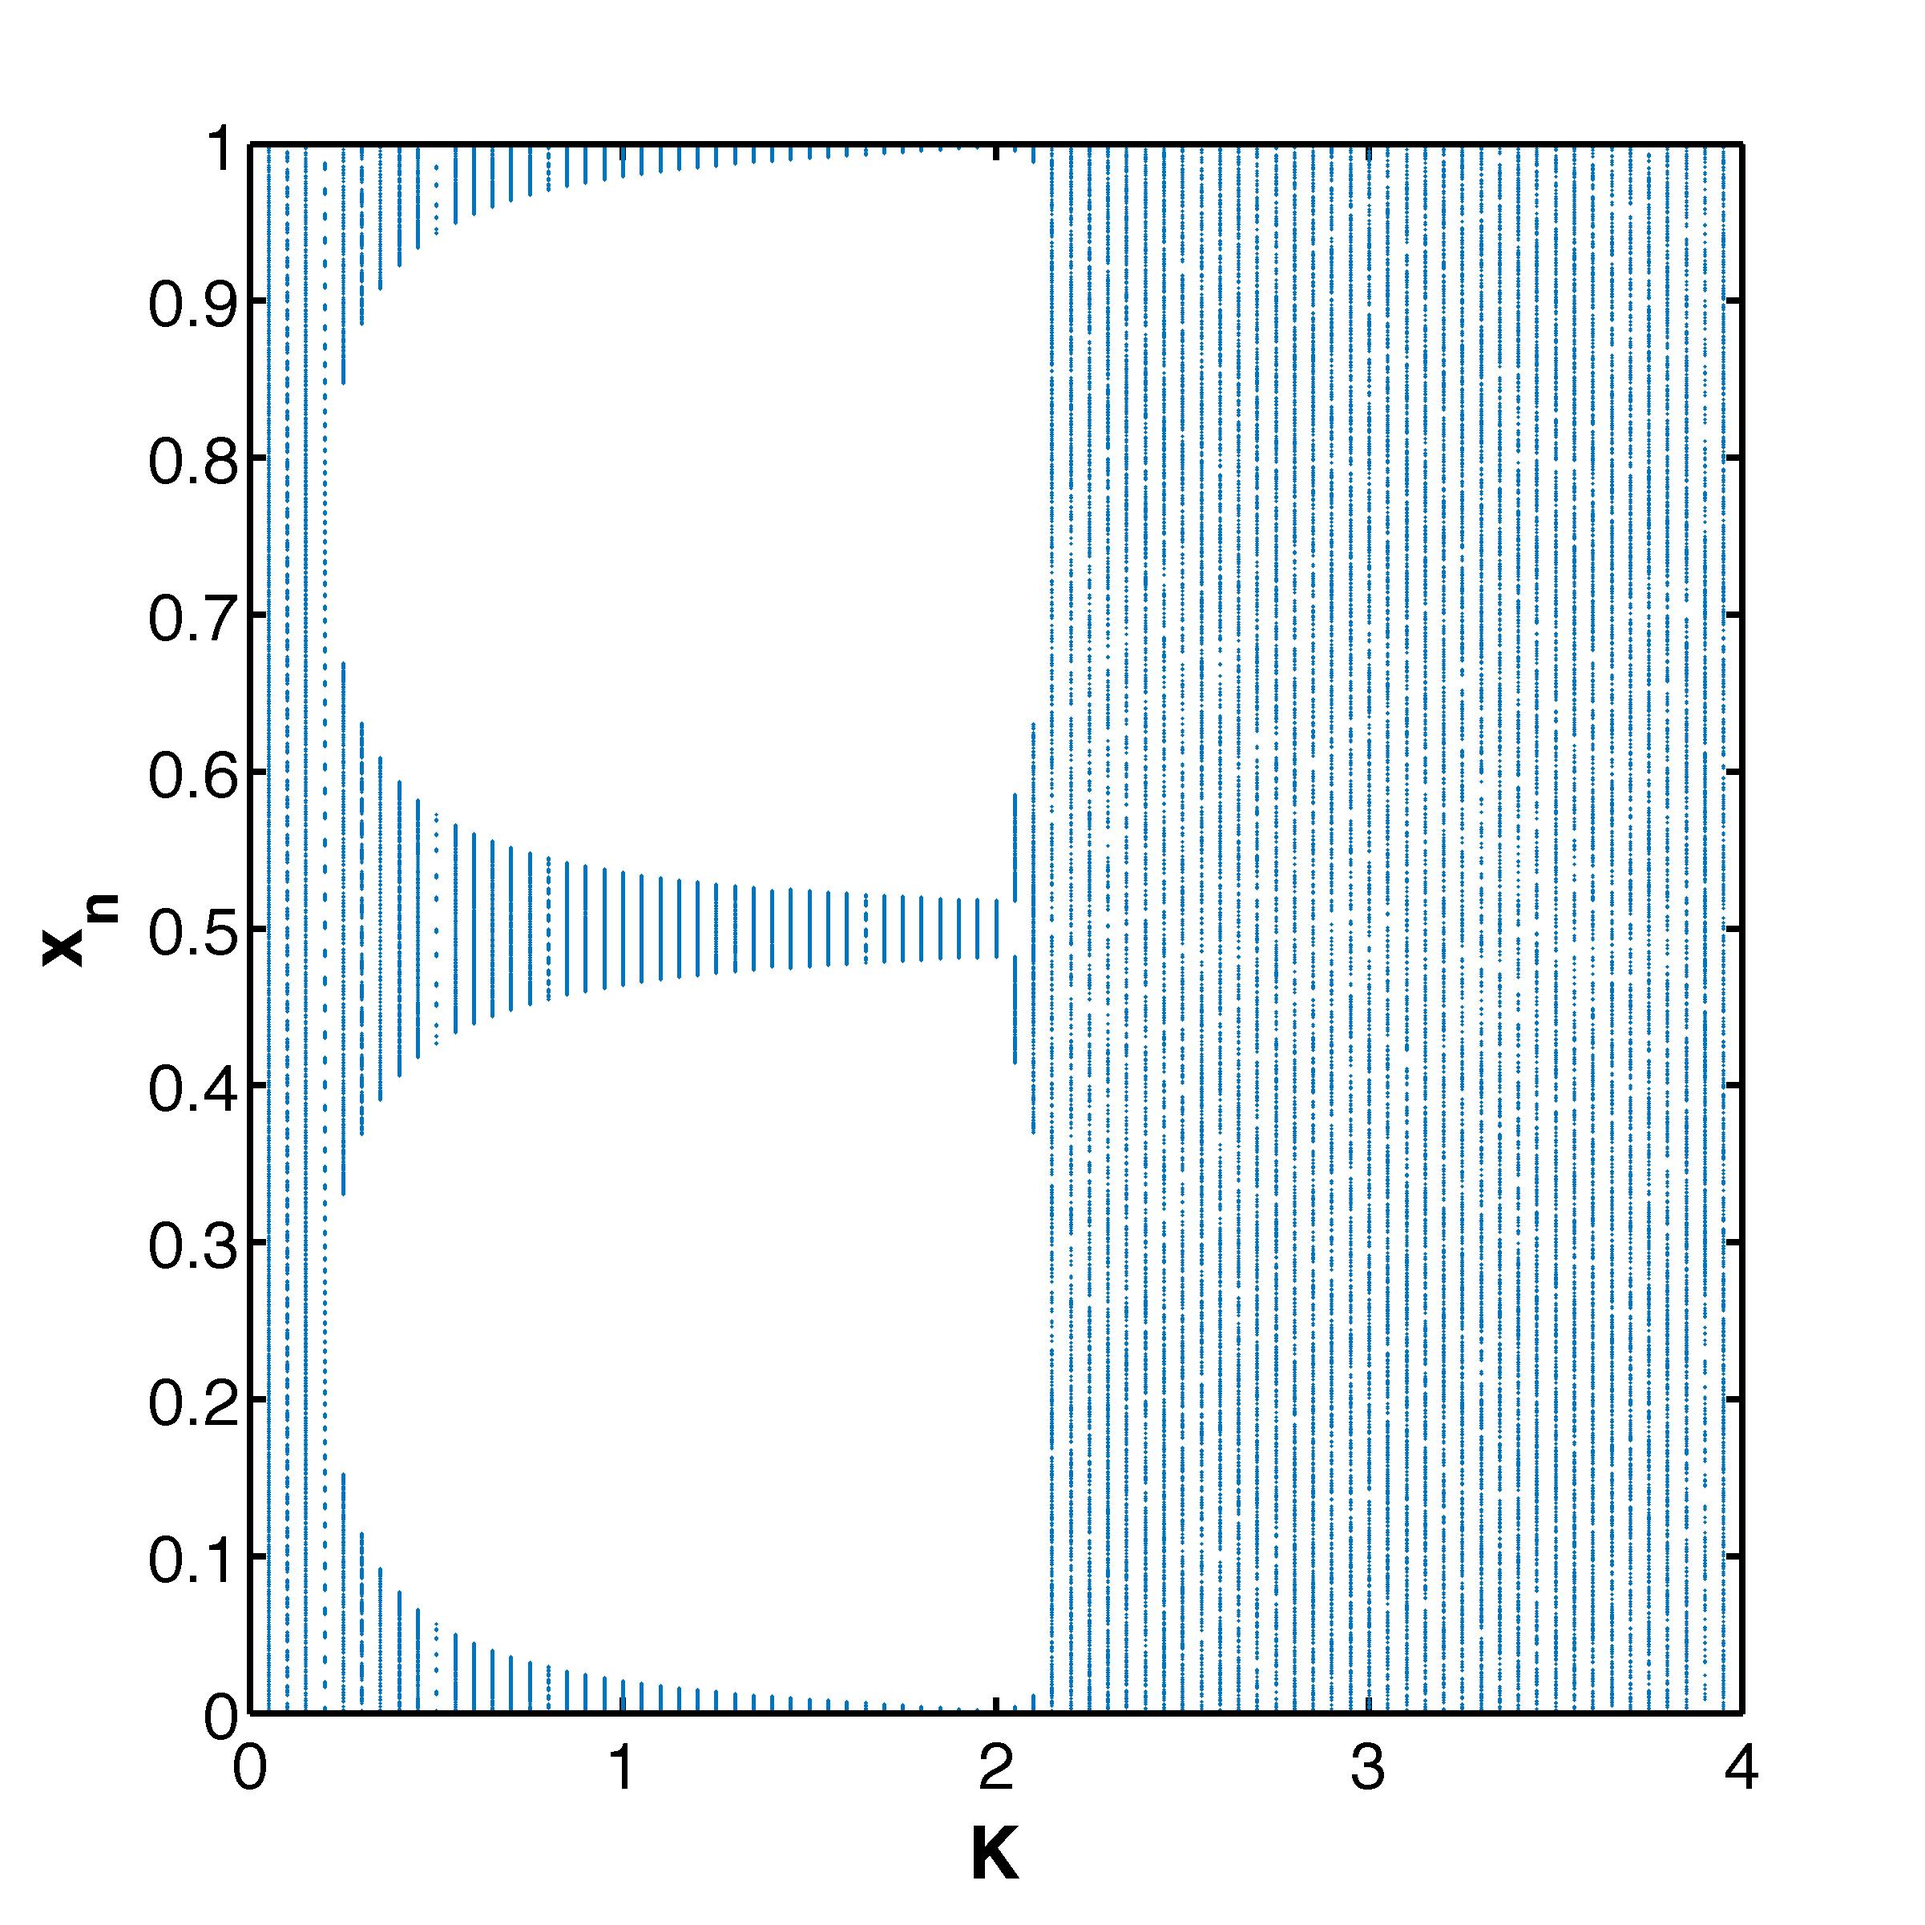
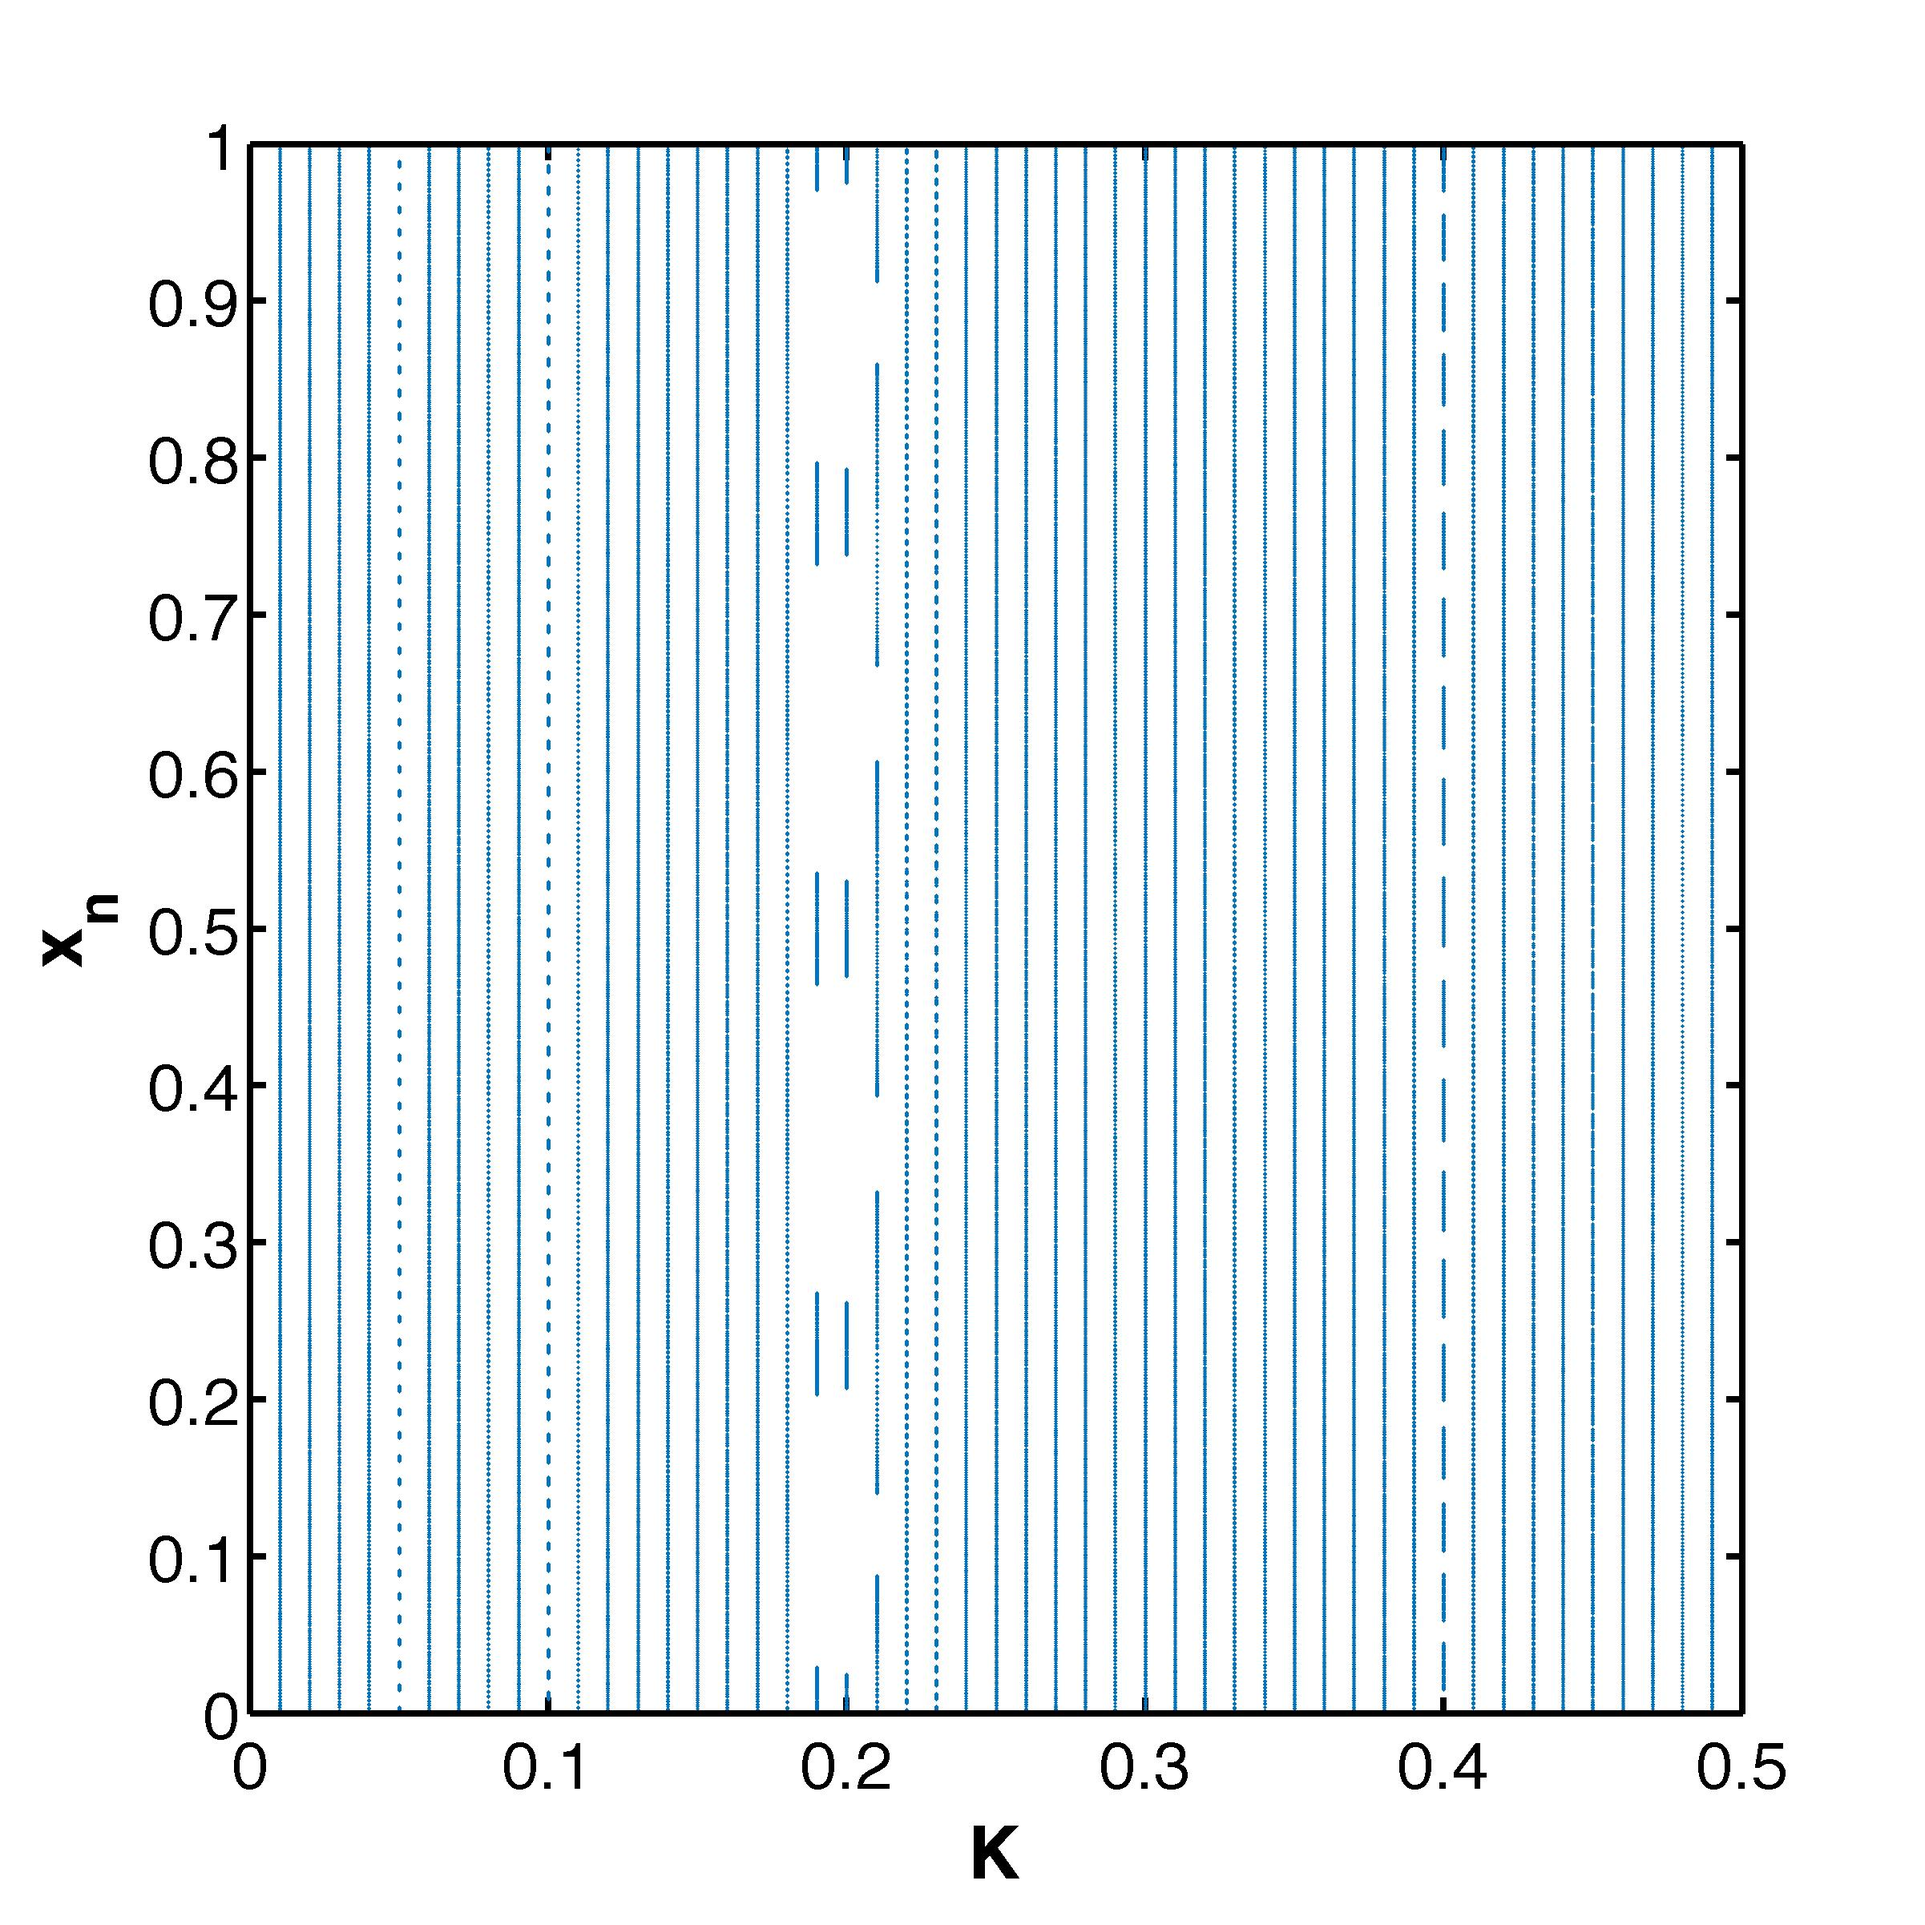
Bifurcation

Changed region(s): [[0.1249, 0.0624, 0.9367, 0.9367], [0.4996, 0.9055, 0.5308, 0.9367]]

diff --git a/Practica/Assignment 1/report/experiment_b.tex b/Practica/Assignment 1/report/experiment_b.tex
@@ -69,13 +69,13 @@ Fixing $x_0$ and varying $p_0$ results in \cref{fig:experiment:K0influenceOfP}, 
 	\begin{subfigure}{\columnwidth}
 		\centering
 			\includegraphics[width=\textwidth]{./img/assignment_b_dim_0_b_x}
-			\caption{$x_0 = \num{0.5179}$}
+			\caption{$x_0 = \num{0.234546}$}
 			\label{fig:experiment:bifurcation:x}
 	\end{subfigure}
 	\begin{subfigure}{\columnwidth}
 		\centering
 			\includegraphics[width=\textwidth]{./img/assignment_b_dim_0_b_p}
-			\caption{$p_0 = \num{0.6505}$}
+			\caption{$p_0 = \num{0.112322}$}
 			\label{fig:experiment:bifurcation:p}
 	\end{subfigure}
 	\caption{main}

diff --git a/Practica/Assignment 1/code/assignment_b_bifurcation_diagram.m b/Practica/Assignment 1/code/assignment_b_bifurcation_diagram.m
@@ -1,6 +1,6 @@
 clc; clear all; close all force;
 
-Ks = 0:1/20:4;
+Ks = 0:0.01:0.5;
 
 X_IDX = 1; P_IDX = 2;
 
@@ -10,8 +10,11 @@ X_IDX = 1; P_IDX = 2;
 % x_0s = rand(1,3);
 % p_0s = rand(1,3);
 
-x_0s = 0.5179;
-p_0s = 0.6505;
+% x_0s = 0.5179;
+% p_0s = 0.6505;
+
+x_0s = 0.234546;
+p_0s = 0.112322;
 
 n = 1000;
 
